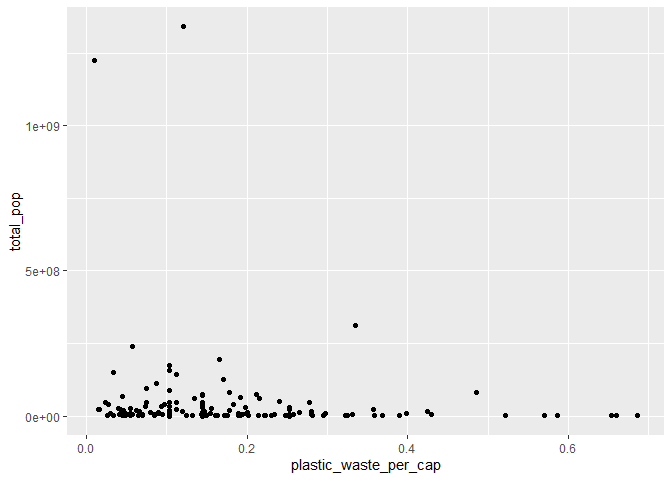
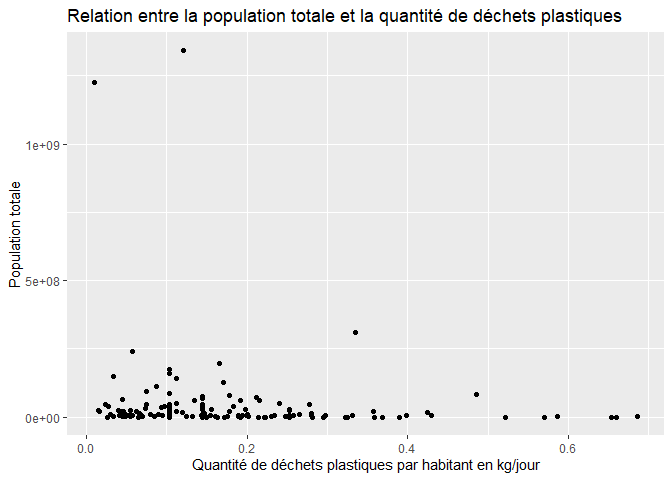
mise à jour

diff --git a/lab-02.md b/lab-02.md
@@ -28,16 +28,21 @@ plastic_waste <- plastic_waste %>%
 ``` r
 ggplot(data = plastic_waste, aes(x = plastic_waste_per_cap)) +
   geom_histogram(binwidth = 0.2)+
-  facet_wrap(.~continent)
+  facet_wrap(.~continent)+
+  labs(title = "Quantité de déchets plastiques par habitant en kg/jour selon le continent", x = "Quantité de déchets plastiques par habitant en kg/jour", y = "Nombre")
 ```
 
 ![](lab-02_files/figure-gfm/plastic-waste-continent-1.png)<!-- -->
+
+La quantité de déchets platiques par habitant est moins élevées en
+Océanie et en Amérique du sud.
 
 ### Exercise 2
 
 ``` r
 ggplot(data = plastic_waste, aes(x = plastic_waste_per_cap, color = continent, fill = continent)) +
-  geom_density(alpha = 0.5)
+  geom_density(alpha = 0.5)+
+  labs(title= "Densité de déchets plastiques par habitant en kg/jour selon le continent", x = "Quantité de déchets plastiques par habitant en kg/jour", y = "Densité")
 ```
 
 ![](lab-02_files/figure-gfm/plastic-waste-density-1.png)<!-- -->
@@ -56,7 +61,8 @@ Boxplot:
 
 ``` r
 ggplot(data = plastic_waste, aes(x = continent, y = plastic_waste_per_cap))+
-  geom_boxplot()
+  geom_boxplot()+
+  labs(title = "Quantité de déchets plastiques par habitant en fontion du continent", x = "Continent", y = "Quantité de déchets plastiques par habitant en kg/jour" )
 ```
 
 ![](lab-02_files/figure-gfm/plastic-waste-boxplot-1.png)<!-- -->
@@ -65,19 +71,21 @@ Violin plot:
 
 ``` r
 ggplot(data = plastic_waste, aes(x = continent, y = plastic_waste_per_cap))+
-  geom_violin()
+  geom_violin()+
+  labs(title = "Quantité de déchets plastiques par habitant en fontion du continent", x = "Continent", y = "Quantité de déchets plastiques par habitant en kg/jour" )
 ```
 
 ![](lab-02_files/figure-gfm/plastic-waste-violin-1.png)<!-- -->
 
-Les violi plots permettent de voir la distribution des données
-comparément aux boxplots.
+Les violin plots permettent de voir la distribution des données
+contrairement aux boxplots.
 
 ### Exercise 4
 
 ``` r
 ggplot(data = plastic_waste, aes(x = plastic_waste_per_cap, y = mismanaged_plastic_waste_per_cap, color = continent)) +
-  geom_point()
+  geom_point()+
+  labs(title = "Relation entre les déchets plastiques et ceux non gérés ", x = "Quantité de déchets plastiques par habitant en kg/jour ", y = "Quantité de déchets plastiques non gérés")
 ```
 
 ![](lab-02_files/figure-gfm/plastic-waste-mismanaged-1.png)<!-- -->
@@ -92,7 +100,8 @@ du sud a moins de données que les autres et qu’elles sont plus basses.
 
 ``` r
 ggplot(data = plastic_waste, aes(x = plastic_waste_per_cap, y = total_pop))+
-  geom_point()
+  geom_point()+
+  labs(title = "Relation entre la population totale et la quantité de déchets plastiques", x = "Quantité de déchets plastiques par habitant en kg/jour", y = "Population totale")
 ```
 
     ## Warning: Removed 10 rows containing missing values or values outside the scale range
@@ -102,12 +111,15 @@ ggplot(data = plastic_waste, aes(x = plastic_waste_per_cap, y = total_pop))+
 
 ``` r
 ggplot(data = plastic_waste, aes(x = plastic_waste_per_cap, y = coastal_pop))+
-  geom_point()
+  geom_point()+
+  labs(title = "Relation entre la population costale et la quantité de déchets plastiques", x = "Quantité de déchets plastiques par habitant en kg/jour", y = "Population costale")
 ```
 
 ![](lab-02_files/figure-gfm/plastic-waste-population-coastal-1.png)<!-- -->
 
-Réponse à la question…
+Dans ces graphes, il est difficile d’observer les relations puisque les
+échelles de la population sont très grandes. Cependant, on peut observer
+une relation un peu plus forte pour la population costale.
 
 ## Conclusion
 
